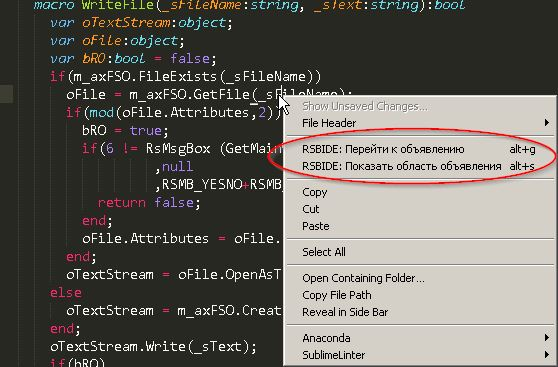
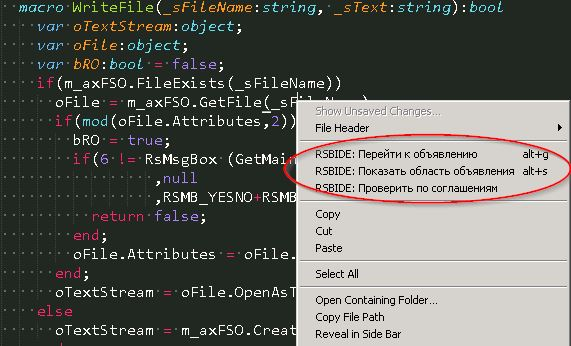
Исправления - Исправлен ряд ошибок fix #11 - Проверки по соглашениям     - Добавленно сообщение в статус строке при завершении проверки по соглашениям "Проверка на замечания выполнена: найденно %s"     - Панель переходов открывается всегда при вызове проверки из контекстного меню     - Добавленна на

Changed region(s): [[0.0305, 0.0, 1.0, 1.0], [0.0, 0.2312, 0.0305, 0.289], [0.9749, 0.896, 1.0, 0.9249]]

diff --git a/RsbIDE.py b/RsbIDE.py
@@ -2,7 +2,7 @@
 # @Author: MOM
 # @Date:   2015-09-09 21:44:10
 # @Last Modified by:   mom1
-# @Last Modified time: 2016-08-14 14:58:23
+# @Last Modified time: 2016-08-15 21:17:47
 
 
 import sublime
@@ -76,7 +76,8 @@ class RSBIDE:
         if "source.mac meta.import.mac" in scope or 'punctuation.definition.import.mac' in scope:
             # completion for import
             currentImport = [view.substr(s).lower().strip() for s in view.find_by_selector('meta.import.mac import.file.mac')]
-            currentImport += [os.path.splitext(basename(view.file_name().lower()))[0]]
+            if view.file_name():
+                currentImport += [os.path.splitext(basename(view.file_name().lower()))[0]]
             project = ProjectManager.get_current_project()
             pfiles = project.filecache.cache.files
             lfile = [
@@ -376,9 +377,12 @@ def get_result(view):
 
     project = ProjectManager.get_current_project()
     project_folder = project.get_directory()
-
-    file = Path.posix(Path.get_absolute_path(project_folder, view.file_name()))
-    sfile = Path.posix(os.path.relpath(file, project_folder))
+    if view.file_name():
+        file = Path.posix(Path.get_absolute_path(project_folder, view.file_name()))
+        sfile = Path.posix(os.path.relpath(file, project_folder))
+    else:
+        file = ''
+        sfile = ''
     word = view.substr(sel)
 
     if word.lower() == 'end' and (
@@ -510,7 +514,7 @@ class LintThisViewCommand(sublime_plugin.WindowCommand):
         view = self.window.active_view()
         if not is_RStyle_view(view):
             return
-        lint = Linter(view, ProjectManager)
+        lint = Linter(view, ProjectManager, force=True)
         lint.start()
 
     def is_visible(self):
@@ -574,9 +578,7 @@ class StatusBarFunctionCommand(sublime_plugin.TextCommand):
                     mess_list += [x[1]]
             if len(mess_list) > 0:
                 MessStat = sep.join(mess_list)
-        else:
-            if not ProjectManager.get_current_project().get_setting("SHOW_CLASS_IN_STATUS", False):
-                return
+        elif ProjectManager.get_current_project().get_setting("SHOW_CLASS_IN_STATUS", False):
             classRegs = [i for i in view.find_by_selector('meta.class.mac') if i.contains(region)]
             classRegsName = [
                 i for i in view.find_by_selector(
@@ -606,12 +608,12 @@ class StatusBarFunctionCommand(sublime_plugin.TextCommand):
 def plugin_loaded():
     update_settings()
     global_settings = sublime.load_settings(config["RSB_SETTINGS_FILE"])
-    global_settings.add_on_change("update", update_settings)
+    global_settings.clear_on_change('RSBIDE_settings')
+    global_settings.add_on_change("RSBIDE_settings", update_settings)
 
 
 def update_settings():
     """ restart projectFiles with new plugin and project settings """
-
     # update settings
     if Settings:
         global_settings = Settings.update()

diff --git a/common/lint.py b/common/lint.py
@@ -2,13 +2,14 @@
 # @Author: mom1
 # @Date:   2016-08-09 13:11:25
 # @Last Modified by:   mom1
-# @Last Modified time: 2016-08-14 19:46:04
+# @Last Modified time: 2016-08-16 00:27:33
 import sublime
 import re
 import threading
 from RSBIDE.RsbIde_print_panel import get_panel
 from RSBIDE.project.ProjectManager import ProjectManager
 # from RSBIDE.common.verbose import log
+# import Default.symbol as navigate
 
 ID = 'Linter'
 
@@ -16,7 +17,7 @@ ID = 'Linter'
 class Linter(threading.Thread):
     """docstring for Linter"""
 
-    def __init__(self, view, ProjectManager=ProjectManager):
+    def __init__(self, view, ProjectManager=ProjectManager, force=False):
         threading.Thread.__init__(self)
 
         self.view = view
@@ -24,6 +25,7 @@ class Linter(threading.Thread):
         self.ProjectManager = ProjectManager
         self.scope = self.ProjectManager.get_current_project().get_setting("SCOP_ERROR", "invalid.mac")
         self.flags = sublime.DRAW_NO_FILL
+        self.force = force
 
     def run(self):
         project = self.ProjectManager.get_current_project()
@@ -39,7 +41,9 @@ class Linter(threading.Thread):
         self.many_param()
         self.many_dept_loop()
         self.cpwin()
-        if project.get_setting("SHOW_SAVE", True):
+        count_comment = len([j.a for i in self.all_lint_regions() for j in self.view.get_regions(i)])
+        sublime.status_message("Проверка на замечания выполнена: найденно %s" % (count_comment))
+        if project.get_setting("SHOW_SAVE", True) or self.force:
             self.all_regions = [[self.get_text_lint(i), self.view.rowcol(j.a)] for i in self.all_lint_regions() for j in self.view.get_regions(i)]
             self.all_regions = sorted(self.all_regions, key=lambda x: x[1][0])
             self.all_regions = [[i[0], str([j + 1 for j in i[1]])] for i in self.all_regions]

diff --git a/project/Project.py b/project/Project.py
@@ -7,6 +7,7 @@ import RSBIDE.common.settings as Settings
 import RSBIDE.common.path as Path
 from RSBIDE.common.verbose import warn
 from RSBIDE.common.verbose import verbose
+# import inspect
 
 ID = "PROJECT"
 
@@ -27,7 +28,7 @@ class Project():
         """
         self.window = window
         self.directory = directory
-        self.update_settings(rsb_settings, project_settings)
+        # self.update_settings(rsb_settings, project_settings)
 
     def update_settings(self, global_settings, project_settings):
         # create final settings object, by merging project specific settings with base settings
@@ -50,7 +51,7 @@ class Project():
         triggers = self.settings.get("scopes", self.get_setting("TRIGGER"))
         valid_file_extensions = get_valid_extensions(triggers)
         folders_to_exclude = self.get_setting("EXCLUDE_FOLDERS")
-
+        # log('STACK', inspect.stack())
         self.filecache = FileCache(valid_file_extensions, folders_to_exclude, self.project_directory)
 
         # evaluate base directory

diff --git a/project/ProjectManager.py b/project/ProjectManager.py
@@ -2,7 +2,7 @@
 import sublime
 import sublime_plugin
 
-from RSBIDE.common.verbose import verbose
+from RSBIDE.common.verbose import verbose, log
 from RSBIDE.project.CurrentFile import CurrentFile
 import RSBIDE.common.settings as Settings
 
@@ -42,9 +42,9 @@ class ProjectManager(sublime_plugin.EventListener):
 
             if ProjectManager.has_current_project():
                 # update project settings
-                # project_settings = Settings.project(window)
-                # ProjectManager.get_current_project().update_settings(
-                #     ProjectManager.rsb_settings, project_settings)
+                project_settings = Settings.project(window)
+                ProjectManager.get_current_project().update_settings(
+                    ProjectManager.rsb_settings, project_settings)
                 verbose(ID, "activate project", ProjectManager.get_current_project().get_directory())
         else:
             verbose(ID, "this is not a project")

diff --git a/CurrentFileListener.py b/CurrentFileListener.py
@@ -20,9 +20,11 @@ class CurrentFileListener(sublime_plugin.EventListener):
         if CurrentFile.is_temp():
             verbose(ID, "temp file saved, reevaluate")
             CurrentFile.cache[view.id()] = None
-        ProjectManager.rebuild_filecache()
-        lint = Linter(view, ProjectManager)
-        lint.start()
+        if ProjectManager.get_current_project().get_setting("LINT_ON_SAVE", True):
+            lint = Linter(view, ProjectManager)
+            lint.start()
+        if CurrentFile.is_valid():
+            ProjectManager.rebuild_filecache()
         self.on_activated_async(view)
 
     def on_activated_async(self, view):

diff --git a/common/config.py b/common/config.py
@@ -9,6 +9,7 @@ config = {
     "SHOW_CLASS_IN_STATUS": False,
     "MAX_DEPTH_LOOP": 5,
     "MAX_COUNT_MACRO_PARAM": 5,
+    "LINT_ON_SAVE": True,
     "RSB_SETTINGS_FILE": "RSBIDE.sublime-settings",
     "ESCAPE_DOLLAR": '\$',
     "TRIGGER_ACTION": ["auto_complete", "insert_path"],

diff --git a/common/settings.py b/common/settings.py
@@ -1,6 +1,7 @@
 import sublime
 import RSBIDE.common.path as Path
 from RSBIDE.common.config import config
+# from RSBIDE.common.verbose import log
 
 
 map_settings = {
